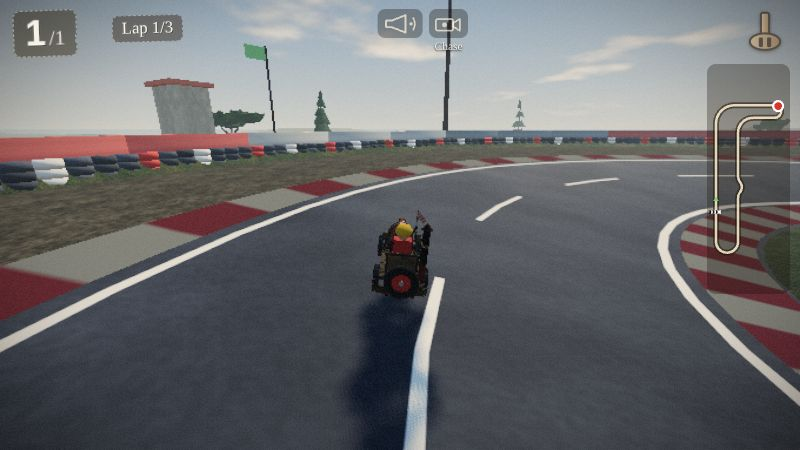
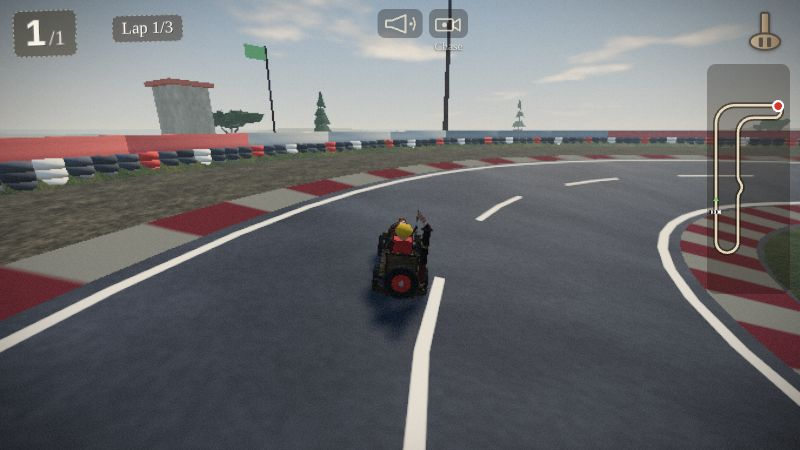
Map round 4 fixes: circuit (longer hairpin gravel, night moon fill, paler finer gravel, lower camber) + WIP gameplay
Claude-Session: https://claude.ai/code/session_01VQdijxiDxB1XrGopiSbUaQ

Changed region(s): [[0.4062, 0.6533, 0.5625, 1.0], [0.4688, 0.56, 0.5, 0.5911]]

diff --git a/src/core/physics.js b/src/core/physics.js
@@ -119,7 +119,7 @@ export function createVehicleBody(specIn, world, opts = {}) {
     const speed = v.length();
     const hb = state.handbrake;
     let contacts = 0; _nSum.set(0, 0, 0);
-    let slipMax = 0, bumpMax = 0, wallN = 0;
+    let slipMax = 0, bumpMax = 0, wallN = 0, cornN = 0;
 
     for (let i = 0; i < 4; i++) {
       const wc = state.wheelContacts[i];
@@ -145,7 +145,7 @@ export function createVehicleBody(specIn, world, opts = {}) {
       N = clamp(N, 0, 8 * m * G);
       if (N <= 0) { wc.compression = clamp(comp / travel, 0, 1.5); continue; }
       wc.contact = true; wc.compression = clamp(comp / travel, 0, 1.5); wc.load = N; wc.surface = g.surf.type || 'dirt';
-      contacts++; _nSum.add(_ws); if (wallStop && wc.surface === 'wall') wallN++;
+      contacts++; _nSum.add(_ws); if (wallStop && wc.surface === 'wall') wallN++; else if (wallStop && wc.surface === 'corn') cornN++;
       bumpMax = Math.max(bumpMax, Math.abs(rate) * (0.3 + g.bump));
       // contact point & velocity
       _cp.copy(_anchor).addScaledVector(_up, -t);
@@ -213,6 +213,19 @@ export function createVehicleBody(specIn, world, opts = {}) {
           q.premultiply(_dq).normalize();
           w.y *= 0.9;
         }
+      }
+    }
+    // rubbing the corn: swing the nose back along the lane (about 3 deg/s away from the wall, plus a gentle align) so a paddling cart re-centres itself
+    if (cornN > 0 && world.track && world.track.sampleAt && state.s > 3) {
+      const tgc = world.track.sampleAt(Math.max(0, state.s)).tangent;
+      _fwd.set(0, 0, -1).applyQuaternion(q);
+      const tl = Math.hypot(tgc.x, tgc.z), fl = Math.hypot(_fwd.x, _fwd.z);
+      if (tl > 0.01 && fl > 0.01 && v.x * _fwd.x + v.z * _fwd.z > -0.5) {
+        let da = Math.atan2(-tgc.z, tgc.x) - Math.atan2(-_fwd.z, _fwd.x);
+        da = Math.atan2(Math.sin(da), Math.cos(da));
+        const sg = state.lateral >= 0 ? 1 : -1;
+        _dq.setFromAxisAngle(_yAxis, clamp(da, -0.5, 0.5) * Math.min(1, h * 1.2) + sg * 0.07 * h);
+        q.premultiply(_dq).normalize();
       }
     }
     // aero drag
@@ -402,7 +415,7 @@ export function createVehicleBody(specIn, world, opts = {}) {
         const offRd = state._edge || state.wheelContacts.some((c) => c.contact && (c.surface === 'grass' || c.surface === 'wall' || c.surface === 'corn'));
         state.pin = offRd && state.speed < 1.5 && state.handbrake < 0.2 && state.s > 3 ? (state.pin || 0) + dt : Math.max(0, (state.pin || 0) - dt * 0.4);
         state.sinceRec = (state.sinceRec == null ? 99 : state.sinceRec) + dt;
-        if ((state.pin > 3.5 || state.stuck > 4) && state.sinceRec > 3 && state.speed < 1.0) { state.pin = 0; state.stuck = 0; this.recover(8); }
+        if ((state.pin > 3 || state.stuck > 3) && state.sinceRec > 3 && state.speed < 1.0) { state.pin = 0; state.stuck = 0; this.recover(8); }
       } else if (state.stuck > (state.surface === 'wall' || state.surface === 'corn' ? 3.5 : 5) && !this.noRecover) { state.stuck = 0; this.recover(3); }
       this.updateTrack();
       const wc0 = state.wheelContacts.find((c) => c.contact);

diff --git a/src/main.js b/src/main.js
@@ -254,7 +254,7 @@ async function boot() {
   const CAM_MARGIN = { corn: 1.35, circuit: 3.0, village: 0.3 };   // corn: wall face is at hw + 1.6, minus the camera radius
   // measured in the cart's own street: the camera's along-road position is cart.s + (cam - cart).tangent, its lateral comes from that street's frame
   // (so a camera beside a junction or inside a house is judged against the right road). Allowed lateral: max(hw + margin, |cartLat| + 1.5).
-  function camClamp(v, hint) {
+  function camClamp(v, hint, view) {
     const m = CAM_MARGIN[builtFor];
     if (m == null || !world || !world.track || !world.track.project || !playerV) return;
     const cp = playerV.body.state.position, cs = playerV.body.state;
@@ -271,7 +271,9 @@ async function boot() {
     if (builtFor !== 'circuit') { const n = Math.min(6, Math.ceil(Math.abs(sCam - pr.s) / 6)); for (let i = 1; i < n; i++) hwN = Math.min(hwN, (world.track.sampleAt(pr.s + (sCam - pr.s) * i / n, ch).width || 6) / 2); }
     const cartOut = builtFor === 'corn' && Math.abs(pr.lateral) > hwN + 0.8;
     const lim = cartOut ? Math.abs(pr.lateral) + 0.5 : Math.max(hwN + m, Math.abs(pr.lateral) + (builtFor === 'corn' ? 0.8 : 1.5));
-    if (Math.abs(L2) > lim) { const dd = (L2 > 0 ? lim : -lim) - L2; v.x += sm.right.x * dd; v.z += sm.right.z * dd; }
+    // corn side view: stay inside the lane (the narrowest width between camera and cart, minus the lens radius) and rise a little, so it never sits in the leaves
+    if (builtFor === 'corn' && view === 'side' && !cartOut) { const sl = Math.max(0.6, hwN - 0.4); if (Math.abs(L2) > sl) { const dd = (L2 > 0 ? sl : -sl) - L2; v.x += sm.right.x * dd; v.z += sm.right.z * dd; } v.y = Math.max(v.y, cp.y + 2.0); }
+    else if (Math.abs(L2) > lim) { const dd = (L2 > 0 ? lim : -lim) - L2; v.x += sm.right.x * dd; v.z += sm.right.z * dd; }
     // corn: when the cart is wedged in the field, rise above the corn instead of sitting inside it
     if (cartOut || (builtFor === 'corn' && Math.abs(L2) > hwN + 0.9)) v.y = Math.max(v.y, cp.y + 3.4);
     // village: a camera that ended up inside a house (outside its own street's walls) is pulled back toward the cart

diff --git a/src/core/camera.js b/src/core/camera.js
@@ -87,7 +87,7 @@ export function createCockpitCamera(camera, { group, parts }, { mode = 'cockpit'
     // occlusion: walls / houses are heightfield bumps. March from the cart to the wanted camera spot; if terrain rises above the
     // line, pull the camera in to the last clear point, then keep it above the ground (smoothed by the follow below)
     // corridor clamp: corn walls / circuit barriers are meshes the heightfield march cannot see, so keep the camera inside the road corridor
-    if (clampLat && camMode !== 'hood') clampLat(_cw, hint);
+    if (clampLat && camMode !== 'hood') clampLat(_cw, hint, camMode);
     const hf = typeof heightAt === 'function' ? heightAt() : heightAt;
     if (hf && camMode !== 'hood') {
       _o.copy(tg.position); _o.y += 0.9;
@@ -109,7 +109,7 @@ export function createCockpitCamera(camera, { group, parts }, { mode = 'cockpit'
         _cw.copy(tg.position).addScaledVector(_cf, -5.2); _cw.y += 2.3; tClear = clearT(_cw);
       }
       if (tClear < 1) { const t = Math.max(0.05, tClear); _cw.set(_o.x + (_cw.x - _o.x) * t, _o.y + (_cw.y - _o.y) * t, _o.z + (_cw.z - _o.z) * t); }
-      if (clampLat) clampLat(_cw, hint);
+      if (clampLat) clampLat(_cw, hint, camMode);
       const hc = hf(_cw.x, _cw.z); if (Number.isFinite(hc) && _cw.y < hc + 0.6) _cw.y = hc + 0.6;
     }
     if (!chaseInit.v) { chasePos.copy(_cw); _lookS.copy(_lookP); chaseInit.v = true; }

diff --git a/src/ui/index.js b/src/ui/index.js
@@ -254,10 +254,10 @@ export function createUI(root, opts = {}) {
     const X = (x) => ox + (x - map.minX) * k, Y = (z) => oz + (z - map.minZ) * k; // downhill (-Z) points up the screen
     c.lineJoin = c.lineCap = 'round';
     const trace = (pts) => { c.beginPath(); pts.forEach(([x, z], i) => (i ? c.lineTo(X(x), Y(z)) : c.moveTo(X(x), Y(z)))); if (pts === map.pts && map.closed) c.closePath(); };
-    // branches (alternative streets): thinner and dashed, under the main road
+    // branches (alternative streets): dashed amber with a dark casing, under the main road
     for (const br of map.branches) {
-      trace(br); c.setLineDash([]); c.strokeStyle = 'rgba(30,20,10,.55)'; c.lineWidth = 6; c.stroke();
-      c.setLineDash([5, 3]); c.strokeStyle = 'rgba(255,190,100,.95)'; c.lineWidth = 3; c.stroke(); c.setLineDash([]);
+      trace(br); c.setLineDash([]); c.strokeStyle = 'rgba(20,12,4,.8)'; c.lineWidth = 9; c.stroke();
+      c.setLineDash([7, 3.5]); c.strokeStyle = '#ffb347'; c.lineWidth = 5; c.stroke(); c.setLineDash([]);
     }
     trace(map.pts); c.strokeStyle = 'rgba(30,20,10,.55)'; c.lineWidth = 6; c.stroke();
     c.strokeStyle = 'rgba(245,232,205,.9)'; c.lineWidth = 2.5; c.stroke();

diff --git a/docs/requests.md b/docs/requests.md
@@ -217,3 +217,8 @@ Append requests as `- [from Agent N → Agent M] ...`
 ## Map loop round 4
 ### Map loop round 4 — village fixer
 - `src/scene/tracks/ground2.js` (1 line): the road-strip skirt row now also calls `T.meshLift` when the theme sets `meshLiftSkirt: true` (village only; default behaviour unchanged). The skirt used to ride up the terrain wall ramp at wall ends / gores and drew the hatched plank wedges.
+
+## Map loop round 4
+### Map loop round 4 — circuit fixer
+- No shared-file edits. `circuit.js` only: hairpin gravel zone widened (s 392-502, |kap| > 0.02), friction 0.5 / drag 1.5 (physics clamps surface drag at 1.5, so this is the maximum), apex dust HPF 0.25 -> 0.30, lighter mineral gravel tint and 2x finer texture, camber clamp 0.13 -> 0.10 (kap*9), night moon-fill hemisphere light (circuit only), softer night-ribbon hairpin fade.
+- Timing s 370-520 at 16 m/s entry (pursuit-steer harness, real physics): before flat 10.40 / brake-12 10.20 / brake-10 10.95 / brake-8 12.20 s; after flat 11.10 / brake-12 10.60 / brake-10 11.25 / brake-8 12.35 s. Flat out now costs +0.5 s over the best line (was +0.2); more needs a stronger gravel/wall scrub in `core/physics.js` (surface drag is clamped at 1.5, wall hits only remove the outward velocity) — [circuit fixer -> gameplay fixer].
